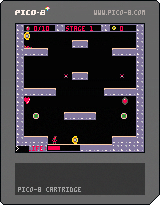
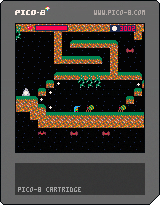
Updated README with version log, improved map design, fixed tile bug.

Changed region(s): [[0.0938, 0.1171, 0.9062, 0.761]]

diff --git a/README.md b/README.md
@@ -1,4 +1,22 @@
+[#last_spell_caster_0_9-2#]
+
+
+[img]/media/135332/last_spellcaster p8_2.gif[/img]
+[img]/media/135332/last_spellcaster min_0.gif[/img]
+[img]/media/135332/last_spellcaster min_1.gif[/img]
+[img]/media/135332/last_spellcaster min_2.gif[/img]
+
 # The Last Spellcaster (Work in progress)
+
+## Log updates
+ - 0.9.1 (2026-03-12)
+   - Fixed map tiles
+   - Improved map design
+ - 0.9 (2026-03-09)
+   - Improved map design
+   - Refined path to search for scrolls
+   - Improved map transitions
+   - Added more enemies and traps
 
 ##  Brief description:
 
@@ -30,7 +48,7 @@ To pass some special doors, or to learn spells, the player must collect **shards
 ## Controls
   - left/right: move
   - z: jump
-  - x: attack
+  - x: attack (once you acquire spells)
   - enter/menu: access to some special option (still in progress)
 
 ## Plot
@@ -47,3 +65,5 @@ Some bugs noticed during a transition from a map to another.
 
 ## Source Code:
 The source code is available on [github] at https://github.com/Mizar01/last_spellcaster
+
+
